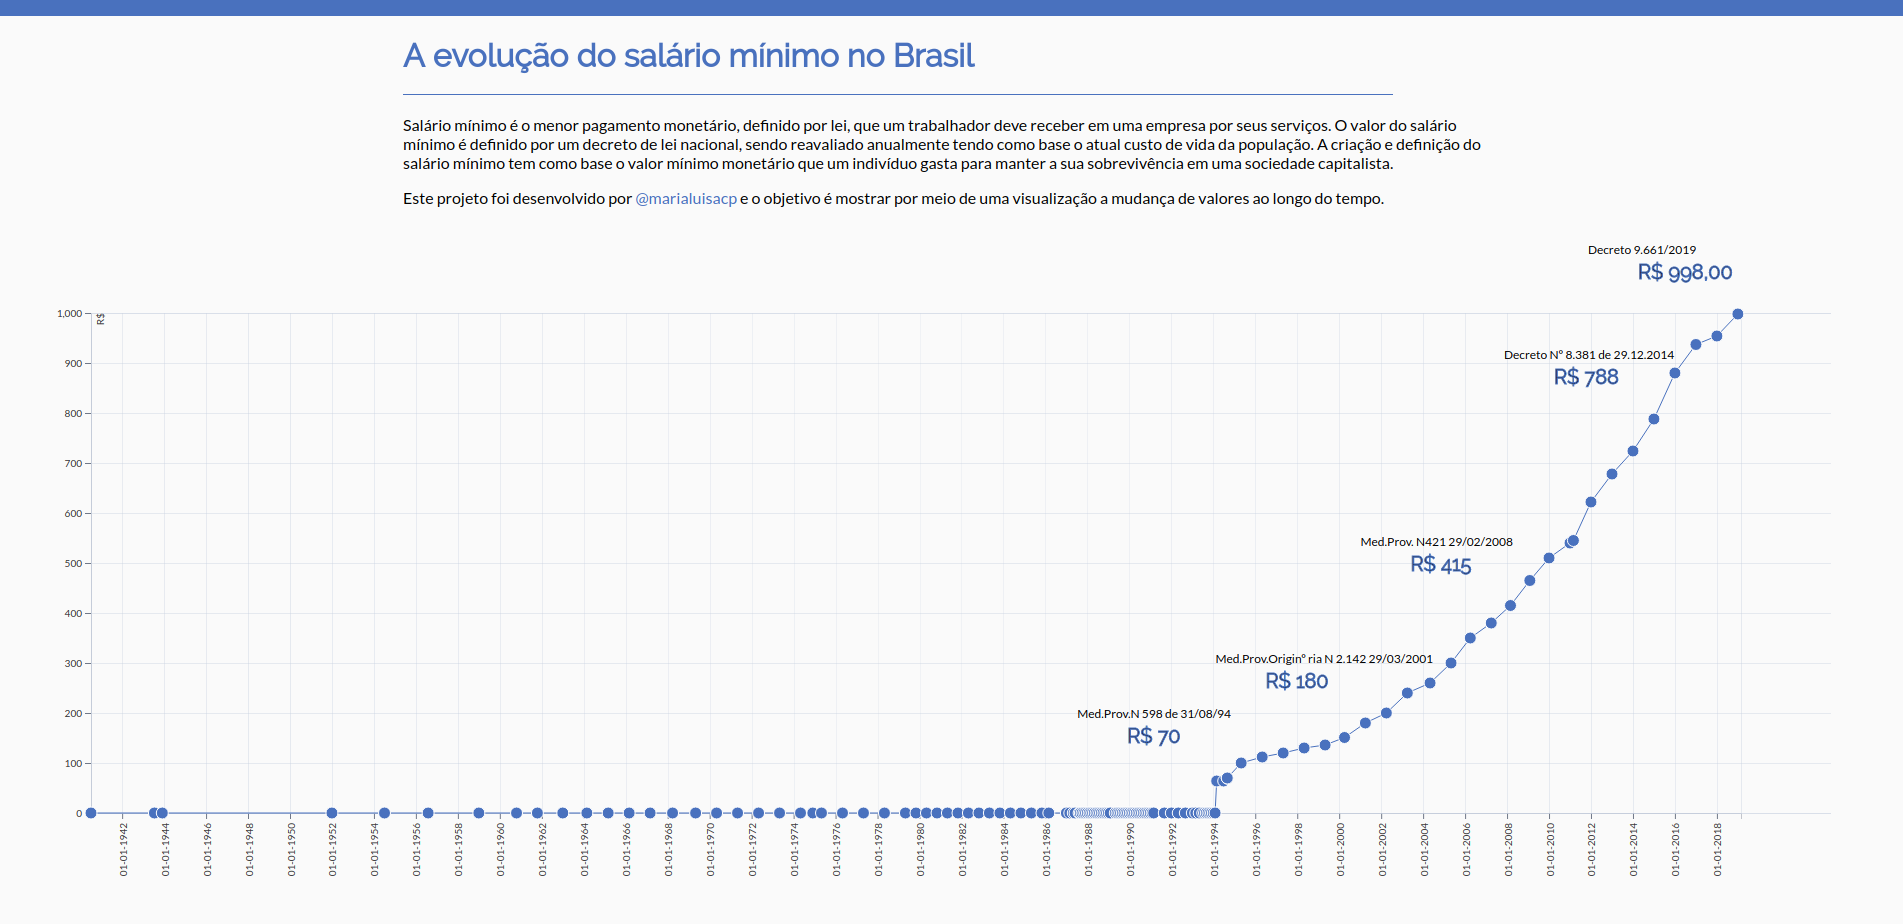
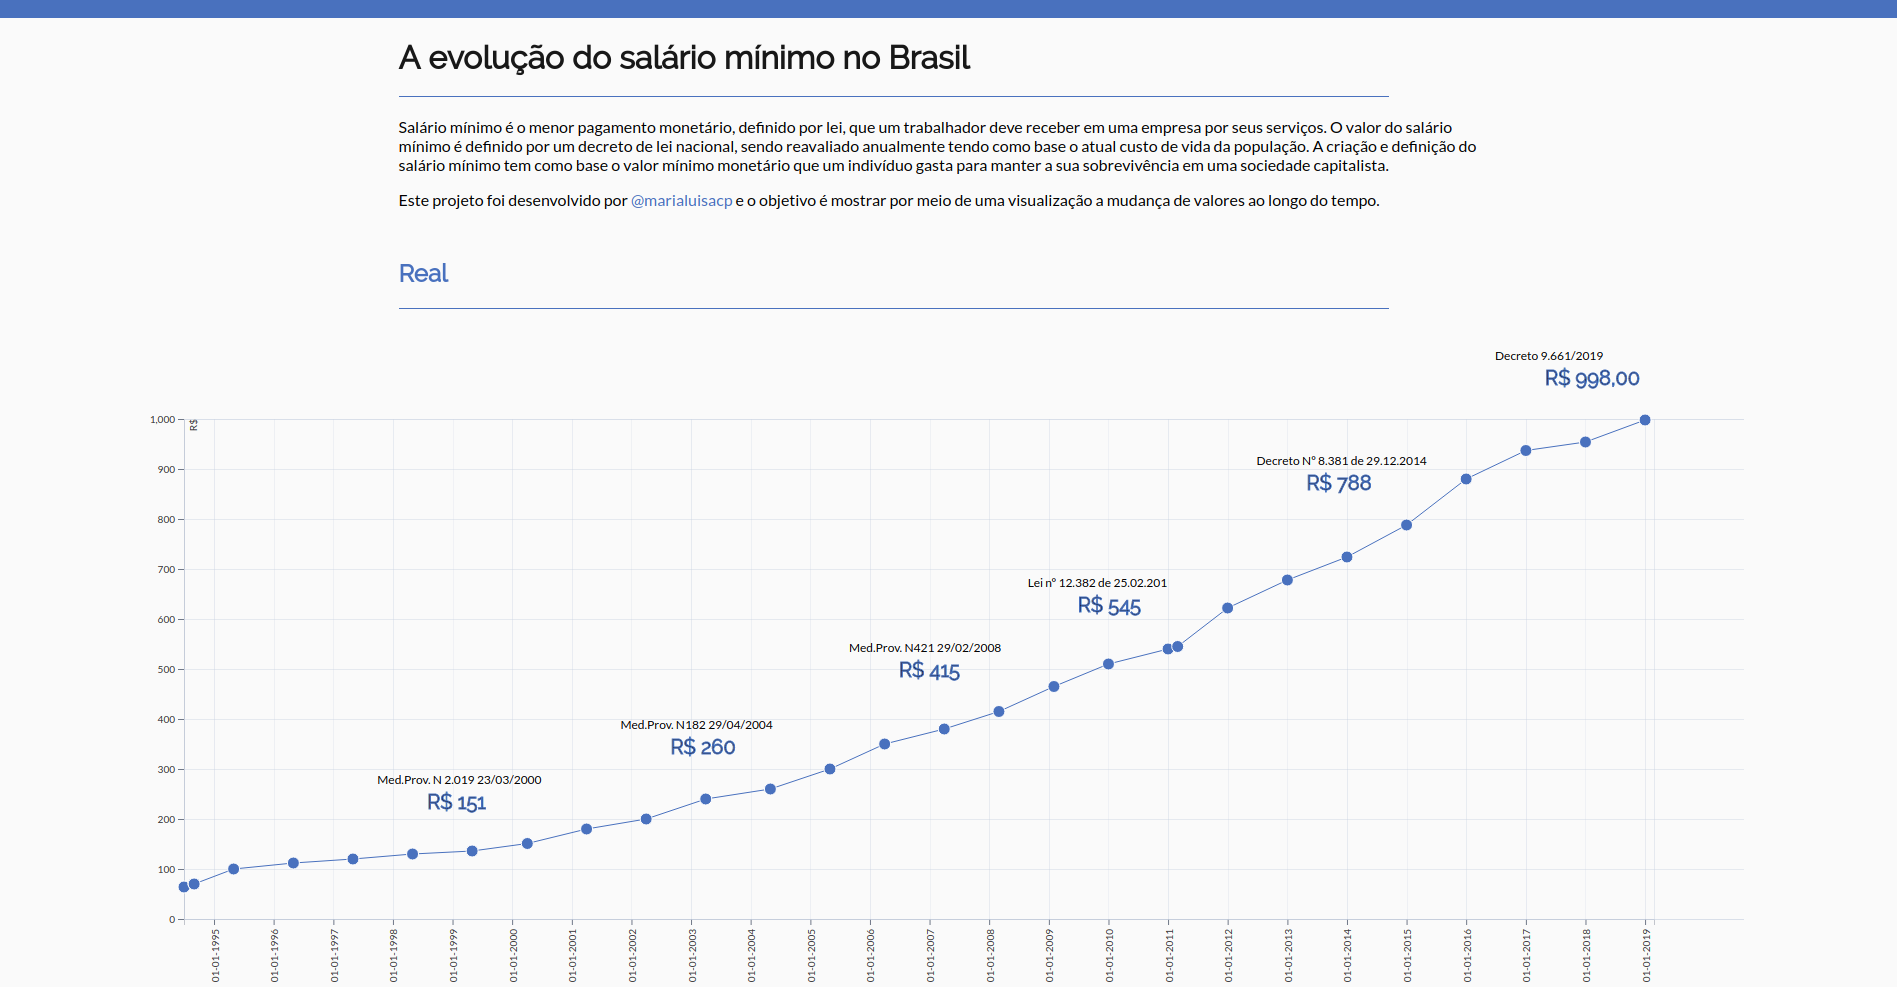
separated real of other coins

diff --git a/src/chart.js b/src/chart.js
@@ -1,12 +1,43 @@
 const pathData = '../data/minimum_wages_data.json';
 const parseDate = d3.timeFormat('%d-%m-%Y');
 
-const render = (data) => {
+const getItemsByTypeChart = (d, type) => {
+  if (type === 'real' && d.coin === 'R$')
+    return true;
 
+  if (type !== 'real' && d.coin !== 'R$')
+    return true;
+
+  return false;
+};
+
+const getStyleReal = (d, i) => {
+  if (i % 4 === 1 && i > 6)
+    return 'visible';
+};
+
+const getStyleCoins = (d, i) => {
+  if (d.value > 300 && i > 2)
+    return 'visible';
+};
+
+const createStyleLegend = (k, value, type) => {
+  document.getElementById(k + '-text-real-' + type).style.opacity = value;
+  document.getElementById(k + '-text-value-' + type).style.opacity = value;
+  document.getElementById(k + '-text-legislation-' + type).style.opacity = value;
+};
+
+const render = (data, chartId, type, scale, getStyle) => {
+  const dataReal = [];
   data.
     forEach(d => {
       convertData(d);
-      d.realValue = convertToReal(d.coin, d.value, d.year);
+      d.realValue = type === 'real'
+        ? convertToReal(d.coin, d.value, d.year)
+        : d.value;
+      if (getItemsByTypeChart(d, type)) {
+        dataReal.push(d);
+      }
     });
 
   const margin = {
@@ -15,25 +46,27 @@ const render = (data) => {
   };
 
   const size = {
-    width: screen.width - margin.horizontal * 2,
+    width: screen.width - margin.horizontal * 4,
     height: 500
   };
 
-  const minDate = d3.min(data, (d) => (d.date));
-  const maxDate = new Date();
+  const minDate = d3.min(dataReal, (d) => (d.date));
+  const maxDate = type === 'real'
+    ? new Date()
+    : d3.max(dataReal, (d) => (d.date));
 
   const x = d3.scaleTime()
     .domain([minDate, maxDate])
     .range([0, size.width - margin.horizontal]);
 
   const y = d3.scaleLinear()
-    .domain([1000, 0])
+    .domain([scale, 0])
     .range([0, size.height]);
 
   const xAxis = d3.axisBottom()
     .scale(x)
     .tickFormat(d3.timeFormat('%m-%d-%Y'))
-    .ticks(50);
+    .ticks(20);
 
   const yAxis = d3.axisLeft()
     .scale(y)
@@ -44,32 +77,32 @@ const render = (data) => {
     .y((d) => d.y);
 
   const defineAxis = (d) => {
-    d.x = x(new Date(d.date));
-    d.y = y(parseFloat(d.realValue));
-    d.id = d.validity;
+    d.realValue = parseFloat(d.realValue).toFixed(2);
 
+    d.x = x(new Date(d.date));
+    d.y = y(d.realValue);
+
+    d.id = d.validity;
     if (d.y < 0) d.y = d.y * -1;
   };
 
-  data.forEach((d) => defineAxis(d));
+  dataReal.forEach((d) => defineAxis(d));
 
   const renderNode = (d) => {
-    return 'translate(' + d.x + ',' + d.y + ')';
+    return `translate(${d.x},${d.y})`;
   };
 
-  const svg = d3.select('#chart')
+  const svg = d3.select(`#${chartId}`)
     .append('svg')
     .attr('width', size.width + (margin.horizontal * 2))
     .attr('height', size.height + (margin.vertical * 2))
     .append('g')
     .attr('transform',
-      'translate('
-      + margin.horizontal
-      + ',' + margin.vertical + ')');
+      `translate(${margin.horizontal * 2},${margin.vertical})`);
 
   svg.append('g')
     .attr('class', 'x-axis')
-    .attr('transform', 'translate(0,' + size.height + ')')
+    .attr('transform', `translate(0,${size.height})`)
     .call(xAxis)
     .selectAll('text')
     .style('text-anchor', 'end')
@@ -96,47 +129,61 @@ const render = (data) => {
 
   svg.append('g')
     .attr('class', 'grid')
-    .attr('transform', 'translate(0,' + size.height + ')')
+    .attr('transform', `translate(0,${size.height})`)
     .call(xAxis
       .tickSize(-size.height, 0, 0)
       .tickFormat('')
     );
 
   svg.append('path')
-    .attr('class', 'line')
-    .attr('d', line(data));
+    .attr('class', `line-${type} line`)
+    .attr('d', line(dataReal));
 
   const nodes = svg.selectAll('.node')
-    .data(data)
+    .data(dataReal)
     .enter().append('g')
     .attr('class', 'node')
-    .attr('transform', (d) => renderNode(d));
+    .attr('transform', (d) => renderNode(d))
+    .on('mouseover', (d, i) => {
+      createStyleLegend(i, 1, type);
+      dataReal.forEach((item, key) => {
+        if (key !== i) {
+          createStyleLegend(key, .1, type);
+        }
+      });
+    });
 
   nodes.append('circle')
     .attr('id', (d) => d.id)
     .attr('r', (d) => 6)
-    .attr('class', 'dot');
+    .attr('class', `dot-${type} dot`);
 
   nodes.append('text')
-    .attr('id', d => d.id + '-text-real')
-    .attr('class', 'txt-real-value txt-detail')
+    .attr('id', (d, i) => i + '-text-real-' + type)
+    .attr('class', `txt-real-value-${type} txt-real-value txt-detail`)
+    .style('visibility', (d, i) => getStyle(d, i))
     .attr('transform',
       'translate(-50, -5)')
     .text(d => getTextReal(d));
 
   nodes.append('text')
-    .attr('id', d => d.id + '-text-value')
-    .attr('class', 'txt-value txt-detail')
+    .attr('id', (d, i) => i + '-text-value-' + type)
+    .attr('class', `txt-value-${type} txt-value txt-detail`)
+    .style('visibility', (d, i) => getStyle(d, i))
     .attr('transform',
       'translate(-100, -35)')
     .text(d => getTextDescription(d));
 
   nodes.append('text')
-    .attr('id', d => d.id + '-text-legislation')
-    .attr('class', 'txt-legislation txt-detail')
+    .attr('id', (d, i) => i + '-text-legislation-' + type)
+    .attr('class', `txt-legislation-${type} txt-legislation txt-detail`)
+    .style('visibility', (d, i) => getStyle(d, i))
     .attr('transform',
       'translate(-150, -60)')
     .text(d => getTextLegislation(d));
 };
 
-d3.json(pathData).then(render);
+d3.json(pathData).then((data) => {
+  render(data, 'chart-real', 'real', 1000, getStyleReal);
+  render(data, 'chart-coins', 'coins', 2000, getStyleCoins);
+});

diff --git a/index.html b/index.html
@@ -14,7 +14,7 @@
   <script src='src/utils.js'></script>
   <script src='src/chart.js'></script>
 
-  <div class="content">
+  <div class='content'>
     <h1>A evolução do salário mínimo no Brasil</h1>
     <p>
       Salário mínimo é o menor pagamento monetário, definido por lei, que um trabalhador deve receber em uma empresa
@@ -24,11 +24,19 @@
       monetário que um indivíduo gasta para manter a sua sobrevivência em uma sociedade capitalista.
     </p>
     <p>
-      Este projeto foi desenvolvido por <a href="http://dcc.ufmg.br/~maria.luisa" target="_blank"> @marialuisacp </a> e
+      Este projeto foi desenvolvido por <a href='http://dcc.ufmg.br/~maria.luisa' target='_blank'> @marialuisacp </a> e
       o objetivo é mostrar por meio de uma visualização a mudança de valores ao longo do tempo.
     </p>
+    <h2> Real </h2>
   </div>
-  <div id='chart'></div>
+  <div id='chart-real'></div>
+  <div class='content'>
+    <h2 class='title-coins'> Outras moedas </h2>
+    <p>
+      Abaixo são exibidos os valores de variação do salário mínimo antes do real.
+    </p>
+  </div>
+  <div id='chart-coins'></div>
 </body>
 
 </html>

diff --git a/styles/main.css b/styles/main.css
@@ -19,6 +19,19 @@ h1,h2,h3,h4 {
   width: 90%;
 }
 
+h1 {
+  color: #111;
+}
+
+h2 {
+  margin-top: 50px;
+}
+
+.title-coins {
+  color: #0EAC51;
+  border-bottom: solid 1px #0EAC51;
+}
+
 a {
   color: #0077C0;
   text-decoration: none;
@@ -31,7 +44,6 @@ a {
 
 #chart {
   overflow: hidden;
-  /* direction: rtl;  */
 }
 
 .grid .tick line, .domain {
@@ -49,14 +61,12 @@ a {
 
 .line {
   fill: none;
-  stroke: #0077C0;
   stroke-width: 1;
   stroke-linejoin: round;
   stroke-linecap: round;
 }
 
 .dot {
-  fill: #0077C0;
   stroke: #fff;
   stroke-width: 1;
 }
@@ -67,12 +77,23 @@ a {
 
 .txt-value {
   font-family: Raleway, sans-serif;
-  stroke: #0077C0;
   font-size: 20px;
 }
 
-.txt-real-value {
-  
+.txt-value-real, .line-real {
+  stroke: #0077C0;
+}
+
+.dot-real {
+  fill: #0077C0;
+}
+
+.txt-value-coins, .line-coins {
+  stroke: #0EAC51;
+}
+
+.dot-coins {
+  fill: #0EAC51;
 }
 
 .txt-legislation {

diff --git a/src/utils.js b/src/utils.js
@@ -58,7 +58,7 @@ const convertData = (d) => {
 const getTextReal = (d) => {
   if (d.coin === 'R$' || d.coin === 'URV')
     return '';
-  return 'R$' + d.realValue
+  return 'R$ ' + d.realValue
 };
 
 const getTextLegislation = (d) => (

diff --git a/README.md b/README.md
@@ -3,6 +3,7 @@
 Estou desenvolvendo um pequeno experimento com dados do salário mínimo no Brasil. O objetivo é colocar em prática algumas boas práticas de programação no desenvolvimento de visualização de dados com D3Js.
 
 ![alt See a printscreen of a project](img/img.png)
+![alt See a printscreen of a project](img/img2.png)
 
 ## Authors
 
